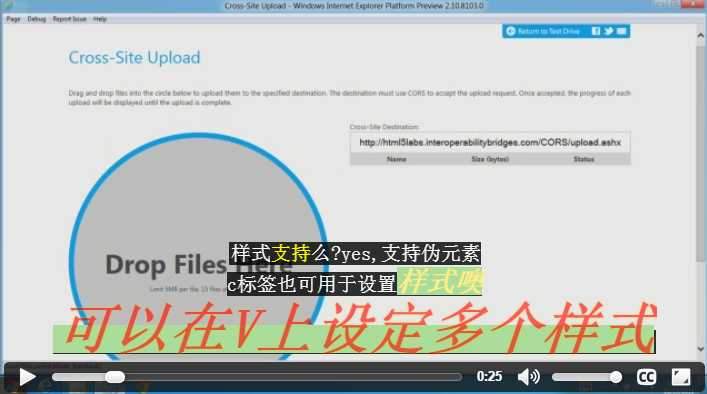
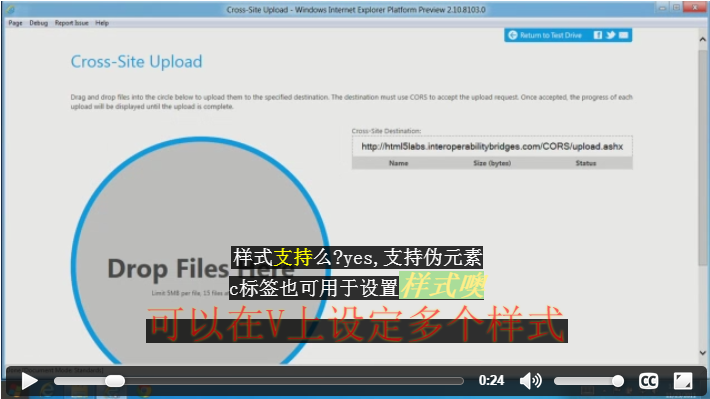
update

diff --git a/demo/vtt.html b/demo/vtt.html
@@ -49,7 +49,8 @@
 		<p>您的浏览器不支持 video 标签。</p>		
 		<!-- <track src="demo.vtt" id="js-tracknode" label="demo vtt" kind="subtitles" srclang="en-us" default=""> -->
 		<!-- <track src="demo-zh.vtt" id="js-tracknode" label="metadata kind" kind="captions" srclang="en-us" default=""> -->
-		<track src="ds.vtt" id="js-tracknode" label="ds vtt" kind="captions" srclang="en-us" default="">
+		<!-- <track src="ds.vtt" id="js-tracknode" label="ds vtt" kind="captions" srclang="en-us" default=""> -->
+		<track kind="captions" src="001.ttml" srclang="en-us" label="English" />
 	</video>
 	<div class="cuewrap"></div>
 </body>

diff --git a/README.md b/README.md
@@ -85,7 +85,7 @@
 - 字幕文本可以换行，也可以带有HTML标签，标签上可以设置样式属性。但上诉代码中的“我是红P”并不会以红色显示。
 - 注释可以通过“NOTE”开头紧跟空格或换行再加注释内容的形式来添加，内容可以多行，注释也需要上下空行。
 
-当然，以上的例子能满足基本的字幕表现需求。那如果想要让字幕有更多更丰富的效果，又该如何来设置呢？以chrome37为例
+当然，以上的例子能满足基本的字幕表现需求。那如果想要让字幕有更多更丰富的效果，又该如何来设置呢？以chrome38为例
 
 ##### 1.对齐 #####
 字幕文本默认是居中对齐(middle)，可以通过设置align的值来改变对齐，如下所示：
@@ -109,25 +109,92 @@
 	事实上我被设置了size：10%
 	代表占据视频可视区域10%的宽度
 在chrome里显示的效果如下：
+
 ![size效果](https://raw.githubusercontent.com/lzf0402/videoCaption/master/demo/image4.png)
 
 ##### 3.伪元素 #####
-刚刚说到字幕文本实际是包在名为**“cue”的伪元素**中，而这个伪元素，正是我们用来设置字幕文本样式的一个中介。来看下面这个例子：
+刚刚说到字幕文本实际是包在名为**“cue”的伪元素**中，而通过这个伪元素，我们可以轻松控制字幕文本的样式，可以设置各种你想要的效果啦。来看下面这个例子：
 
     00:00:24.000 --> 00:00:28.000 
 	样式<v.support>支持</v>么?yes,支持伪元素
-	c标签也可用于设置<c.aclass>样式噢
+	c标签也可用于设置<c.aclass>样式噢</c>
 	<v.third.loud>可以在V上设定多个样式
-字幕文本可以嵌入V（voice）、C（class）这类标签，同时标签后可以跟相应的样式名称，且可设置多个样式名称。
+字幕文本可以嵌入V（voice）、C（class）这类标签，同时标签后可以跟相应的样式名称，如support、aclass等，且可设置多个样式名称（如.third.loud）。如果标签不闭合，后面内容均包含在该标签内。
 
-    ::cue(.aclass){font-size:28px;color:#fe8;background:#ad9;font-weight: bold;font-family:simsun;font-style:italic;}
-	::cue(.support){color:yellow;}
-	::cue(v[voice="Jack"]){color:blue;border:2px solid #000;padding:0;background:#fff;opacity:0.5;border-radius:5px;}
-	::cue(.third){color:red;}
-	::cue(.loud){font-size:2em;opacity:0.6;text-shadow:0 0 3px #fc0;border:1px solid #0fc;display: block;padding:10px;}
+    <style type="text/css">
+	    ::cue(.aclass){font-size:28px;color:#fe8;background:#ad9;font-weight: bold;font-family:simsun;font-style:italic;}
+		::cue(.support){color:yellow;}
+		::cue(.third){color:red;}
+		::cue(.loud){font-size:2em;opacity:0.6;text-shadow:0 0 3px #fc0;border:1px solid #0fc;display: block;padding:10px;}
+	</style>
 
+**::cue伪元素**能设置的css属性主要有：color、opacity、visibility、text-decoration、text-shadow、white-space、background系列、outline系列、font系列，其他的属性会被忽略。
 ![伪元素效果](https://raw.githubusercontent.com/lzf0402/videoCaption/master/demo/image5.png)
 
+通过伪元素，已能在很大程度上满足自定义各种效果的字幕需求。查看[W3C文档](http://dev.w3.org/html5/webvtt/ "webvtt规范")可以知道，还可以给字幕文本设置很多其他的样式，比如设置文本的书写方向（writing direction）,文本定位（text position）、文本轨道区域（Text Track Region）等。
 
 ## TTML ##
+**TTML** 即Timed Text Markup Language，计时文本标记语言，是W3C的推荐标准（[查看文档](http://www.w3.org/TR/ttml1/)）。相对WebVTT来说，TTML可能更正统一点，尽管在浏览器实现方面还赶不上WebVTT。TTML格式的字幕文件，在chrome38里还没支持，但通过规范，先来简单了解下吧。
+##### TTML文档结构 #####
+	<tt xml:lang="" xmlns="http://www.w3.org/ns/ttml"> 
+	  <head>  //head标签
+	    <metadata/>
+	    <styling/>
+	    <layout/>
+	  </head>
+	  <body>
+		//设置字幕
+	  </body> 
+	</tt>
+作为一门标记语言，TTML文档的结构也很清晰简单。tt作为根元素包裹所有的内容，且可设置语言和遵循的规范。head标签里可以设置元数据、样式和布局信息，head里包含的内容并不会作为内容显示出来，实际可显示的字幕内容是包含在body标签里的。
 
+##### TTML Metadata #####
+metadata元数据标签，可以设定TTML文档的title, description, 和 copyright信息等其他任意的metadata信息。如下所示：
+
+	<metadata xmlns:ttm="http://www.w3.org/ns/ttml#metadata">
+	  <ttm:title>Timed Text TTML Example</ttm:title>
+	  <ttm:copyright>The Authors (c) 2006</ttm:copyright>
+	</metadata>
+
+##### TTML Styling #####
+styling样式信息：即能按样式规范形式来设定，也可在行内设定样式信息
+
+	<styling xmlns:tts="http://www.w3.org/ns/ttml#styling">
+	  <!-- s1 定义了文本颜色、字体、字号和对齐样式 -->
+	  <style xml:id="s1" tts:color="white" tts:fontFamily="arial" tts:fontSize="22px" tts:textAlign="center" />
+	  <!-- 除了颜色是yellow外，其他样式同s1所定义的 -->
+	  <style xml:id="s2" style="s1" tts:color="yellow"/> 
+	</styling>
+styling标签里可以定义多条样式。每条样式需要设定一个id，且可以通过style属性“继承”别条样式的值。所以上述代码中，s2的样式继承了s1定义的样式，只把color重写了。
+
+##### TTML Layout #####
+layout布局信息：定义展示内容的一个或多个区域。定义region时，也可以设定或“继承”一些样式，来设置该区域内容的表现形式。
+
+	<layout xmlns:tts="http://www.w3.org/ns/ttml#styling">
+	  <region xml:id="subtitleArea"
+	    style="s1"
+	    tts:extent="560px 62px"
+	    tts:padding="5px 3px"
+	    tts:backgroundColor="black"
+	    tts:displayAlign="after"
+	  />
+	</layout>  
+
+##### TTML Body #####
+上面介绍了如何定义样式信息、布局信息，那如何将这些定义好的信息运用到字幕文本里呢？看下面代码：
+
+	<body region="subtitleArea"> //指定已定义好的region的id
+	  <div>
+	    <p xml:id="subtitle1" begin="0.76s" end="3.45s"> //设定字幕的开始和结束时间点
+	      It seems a paradox, does it not,
+	    </p>
+	    <p xml:id="subtitle2" begin="5.0s" end="10.0s" style="s2">//设定已定义的样式
+	      that the image formed on<br/> //换行用br标签
+	      the Retina should be inverted?
+	    </p>
+	  </div>
+	</body>
+因为目前浏览器没有很好的支持TTML格式，所以这些效果都无法预览。但根据W3C上的规范，已大概能预见到浏览器会实现出的效果。以上只是对TTML的一个概览性的介绍。
+
+## 结语 ##
+本文对**track元素**以及两种字幕文件格式**webVTT**和**TTML**进行了介绍，较偏向于使用层面。一来是对HTML5新加的Video元素和Track元素有进一步认识；二来是想掌握W3C标准组在视频字幕方面的一些动向，虽未列为标准，但作为一个前瞻性的内容先入个门。 随着浏览器如此快速的版本更新，相信不久的将来，各大浏览器厂商在视频字幕方面都会有进一步的支持。
